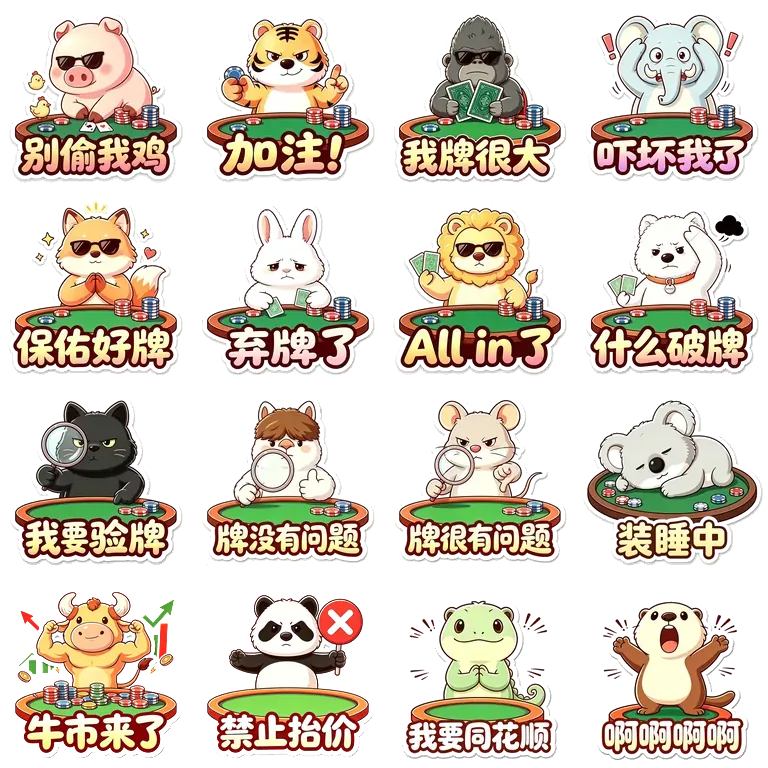
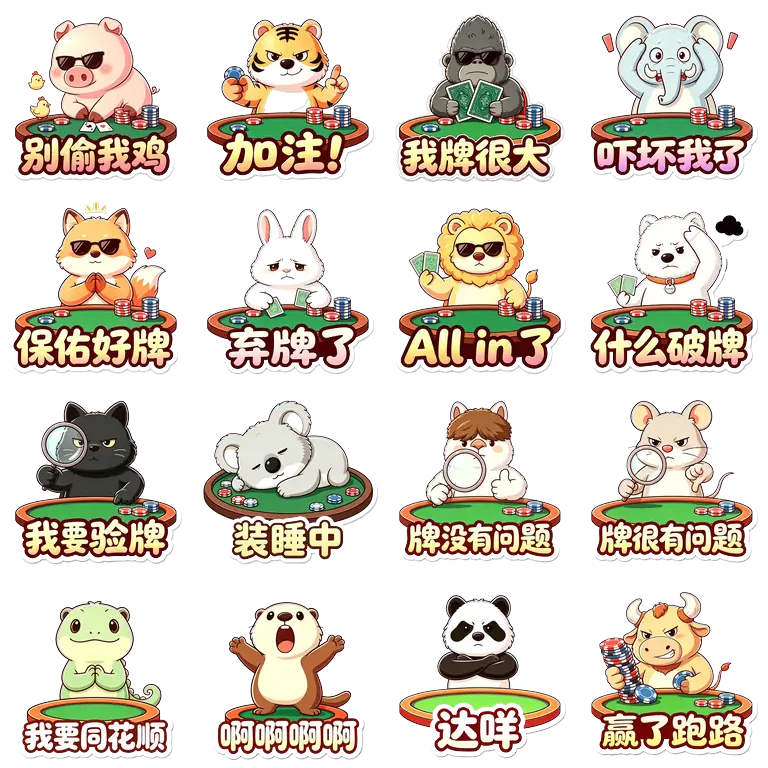
feat: 更新桌面表情贴纸并替换末两张
去白底导出透明 4×4 WebP；第三行重排装睡位置，第四行改为达咩与赢了跑路。

diff --git a/src/lib/emotes.ts b/src/lib/emotes.ts
@@ -21,13 +21,13 @@ export const TABLE_EMOTES = [
   { id: "allin", label: "All in", col: 2, row: 1 },
   { id: "junk", label: "什么破牌", col: 3, row: 1 },
   { id: "inspect", label: "我要验牌", col: 0, row: 2 },
-  { id: "clean", label: "牌没有问题", col: 1, row: 2 },
-  { id: "suspect", label: "牌很有问题", col: 2, row: 2 },
-  { id: "sleep", label: "装睡中", col: 3, row: 2 },
-  { id: "bull", label: "牛市来了", col: 0, row: 3 },
-  { id: "noraise", label: "禁止抬价", col: 1, row: 3 },
-  { id: "flush", label: "我要同花顺", col: 2, row: 3 },
-  { id: "scream", label: "啊啊啊啊", col: 3, row: 3 },
+  { id: "sleep", label: "装睡中", col: 1, row: 2 },
+  { id: "clean", label: "牌没有问题", col: 2, row: 2 },
+  { id: "suspect", label: "牌很有问题", col: 3, row: 2 },
+  { id: "flush", label: "我要同花顺", col: 0, row: 3 },
+  { id: "scream", label: "啊啊啊啊", col: 1, row: 3 },
+  { id: "dame", label: "达咩", col: 2, row: 3 },
+  { id: "runaway", label: "赢了跑路", col: 3, row: 3 },
 ] as const;
 
 export type EmoteId = (typeof TABLE_EMOTES)[number]["id"];
